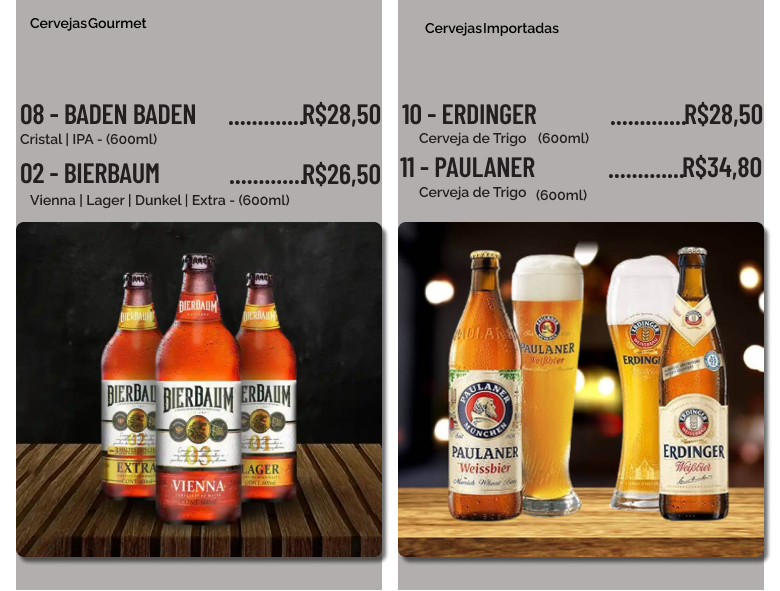
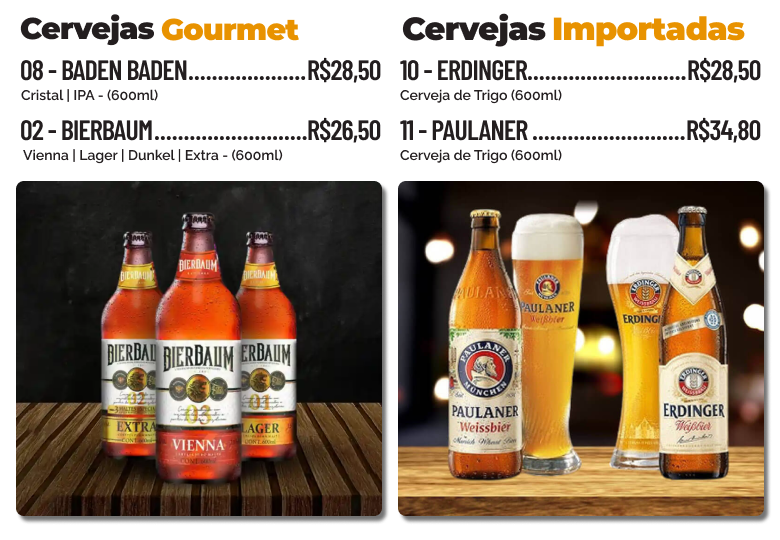
alterações cardapio seção bebidas

diff --git a/cardapio/index.html b/cardapio/index.html
@@ -553,217 +553,20 @@
                     </div>
                 </div>
             </div>
-
             <div class="title bg-vermelho">
                 <h2>caipirinhas</h2>
             </div>
-            <div class="container bebidas-div">
-                <div class="column">
-                    <div class="item">
-                        <div class="item-nome">
-                            <p class="item-cod ">40 - Caipirinha artesanal</p>
-                            <span class="separador">.............................</span>
-                            <p class="item-preco">R$27,00</p>
-                        </div>
-                    </div>
-                    <div class="item">
-                        <div class="item-nome">
-                            <p class="item-cod ">41 - Caipirinha artesanal</p>
-                            <span class="separador">.................................</span>
-                            <p class="item-preco">R$31,00</p>
-                        </div>
-                        <p class="item-descricao">Cachaça Espírito de Minas</p>
-                    </div>
-                    <div class="item">
-                        <div class="item-nome">
-                            <p class="item-cod ">42 - Caipiroska de frutas <br> <small>(Smirnoff)</small></p>
-                            <span class="separador">............................................</span>
-                            <p class="item-preco">R$31,00</p>
-                        </div>
-                    </div>
-                    <div class="item">
-                        <div class="item-nome">
-                            <p class="item-cod ">49 - Caipiroska de frutas <br><small>(Absolut)</small></p>
-                            <span class="separador">............................................</span>
-                            <p class="item-preco">R$37,00</p>
-
-                        </div>
-                    </div>
-                    <div class="item">
-                        <div class="item-nome">
-                            <p class="item-cod ">44 - Saquerinha de frutas</p>
-                            <span class="separador">................................</span>
-                            <p class="item-preco">r$29,50</p>
-                        </div>
-                    </div>
-                </div>
-                <div class="column">
-                    <img class="img-cardapio" src="assets/img/img-16.webp" alt="">
-                </div>
-            </div>
-
+            <img src="assets/img/caipirinhas.webp" alt="caipirinhas">
             <div class="title bg-preto mt-64">
                 <h2>doses</h2>
             </div>
-
-            <div class="bebidas-div">
-
-                <div class="item">
-                    <div class="item-nome">
-                        <p class="item-cod">79 - Cachaça Especial</p>
-                        <span
-                            class="separador">......................................................................................................................................................................</span>
-                        <p class="item-preco">r$10,50</p>
-                    </div>
-                </div>
-                <div class="item">
-                    <div class="item-nome">
-                        <p class="item-cod">51 - Old Parr 12 anos.</p>
-                        <span
-                            class="separador">......................................................................................................................................................................</span>
-                        <p class="item-preco">r$26,50</p>
-                    </div>
-                </div>
-                <div class="item">
-                    <div class="item-nome">
-                        <p class="item-cod">52 - Logan 12 anos</p>
-                        <span
-                            class="separador">......................................................................................................................................................................</span>
-                        <p class="item-preco">r$26,50</p>
-                    </div>
-                </div>
-                <div class="item">
-                    <div class="item-nome">
-                        <p class="item-cod ">53 - Red Label 8 anos</p>
-                        <span
-                            class="separador">......................................................................................................................................................................</span>
-                        <p class="item-preco">r$24,50</p>
-                    </div>
-                </div>
-                <div class="item">
-                    <div class="item-nome">
-                        <p class="item-cod ">54 - Black Label 12 anos</p>
-                        <span
-                            class="separador">......................................................................................................................................................................</span>
-                        <p class="item-preco">r$26,50</p>
-                    </div>
-                </div>
-                <div class="item">
-                    <div class="item-nome">
-                        <p class="item-cod ">55 - Jack Daniel's</p>
-                        <span
-                            class="separador">......................................................................................................................................................................</span>
-                        <p class="item-preco">r$24,60</p>
-                    </div>
-                </div>
-                <div class="item">
-                    <div class="item-nome">
-                        <p class="item-cod ">62 - Campari</p>
-                        <span
-                            class="separador">......................................................................................................................................................................</span>
-                        <p class="item-preco">r$23,60</p>
-                    </div>
-                </div>
-                <div class="item">
-                    <div class="item-nome">
-                        <p class="item-cod ">75 - Conhaque Domecq</p>
-                        <span
-                            class="separador">......................................................................................................................................................................</span>
-                        <p class="item-preco">r$19,20</p>
-                    </div>
-                </div>
-                <div class="item">
-                    <div class="item-nome">
-                        <p class="item-cod ">71 - Steinhaeger Becosa</p>
-                        <span
-                            class="separador">......................................................................................................................................................................</span>
-                        <p class="item-preco">r$22,30</p>
-                    </div>
-                </div>
-                <div class="item">
-                    <div class="item-nome">
-                        <p class="item-cod ">72 - Steinhaeger Schlichte</p>
-                        <span
-                            class="separador">......................................................................................................................................................................</span>
-                        <p class="item-preco">r$24,80</p>
-                    </div>
-                </div>
-                <div class="item">
-                    <div class="item-nome">
-                        <p class="item-cod">74 - Vodka Smirnoff</p>
-                        <span
-                            class="separador">......................................................................................................................................................................</span>
-                        <p class="item-preco">r$18,80</p>
-                    </div>
-                </div>
-                <div class="item">
-                    <div class="item-nome">
-                        <p class="item-cod">78 - Vodka Absolut</p>
-                        <span
-                            class="separador">......................................................................................................................................................................</span>
-                        <p class="item-preco">r$25,40</p>
-                    </div>
-                </div>
-            </div>
+            <img src="assets/img/doses.webp" alt="doses">
             <div class="title bg-amarelo">
                 <h2>cervejas long neck</h2>
             </div>
-            </div>
+            <img src="assets/img/cervejas-long-neck.webp" alt="cervejas long neck">
+            <img src="assets/img/cervejas-gourmet.webp" alt="cervejas long neck">
 
-            <img src="assets/img/cervejas-long-neck.webp" alt="cervejas long neck" >
-            <div class="container">
-                <div class="column">
-                    <div>
-                        <h2 class="cervejas-title">Cervejas <span>Gourmet</span></h2>
-                        <p class="cervejas-pilula">Gourmet 600ml</p>
-                    </div>
-                    <div class="item">
-                        <div class="item-nome">
-                            <p class="item-cod">08 - Baden Baden</p>
-                            <span
-                                class="separador">...........................................................................</span>
-                            <p class="item-preco">r$28,50</p>
-                        </div>
-                        <p class="item-descricao">Cristal | IPA</p>
-
-                    </div>
-                    <div class="item">
-                        <div class="item-nome">
-                            <p class="item-cod">02 - bierbaum</p>
-                            <span
-                                class="separador">...........................................................................</span>
-                            <p class="item-preco">r$26,50</p>
-                        </div>
-                        <p class="item-descricao">Vienna | Lager | Dunkel | Extra</p>
-                    </div>
-
-                    <img class="img-cardapio" src="assets/img/img-18.webp" alt="">
-
-                </div>
-                <div class="column">
-                    <div>
-                        <h2 class="cervejas-title">Cervejas <span>Importadas</span></h2>
-                        <p class="cervejas-pilula">Importadas 500ml</p>
-                    </div>
-                    <div class="item">
-                        <div class="item-nome">
-                            <p class="item-cod ">10 - Erdinger <small>(trigo)</small></p>
-                            <span
-                                class="separador">...........................................................................</span>
-                            <p class="item-preco">r$36,80</p>
-                        </div>
-                    </div>
-                    <div class="item">
-                        <div class="item-nome">
-                            <p class="item-cod ">11 - paulaner <small>(trigo)</small></p>
-                            <span
-                                class="separador">....................................................................................</span>
-                            <p class="item-preco">r$34,80</p>
-                        </div>
-                    </div>
-                    <img class="img-cardapio" src="assets/img/img-19.webp" alt="">
-                </div>
-            </div>
             <container><img class="img-cardapio" src="assets/img/fim.webp" alt=""></container>
         </section>
 
@@ -796,5 +599,4 @@
         <script src="assets/js/lib/stats.js"></script>
     </main>
 </body>
-
 </html>
